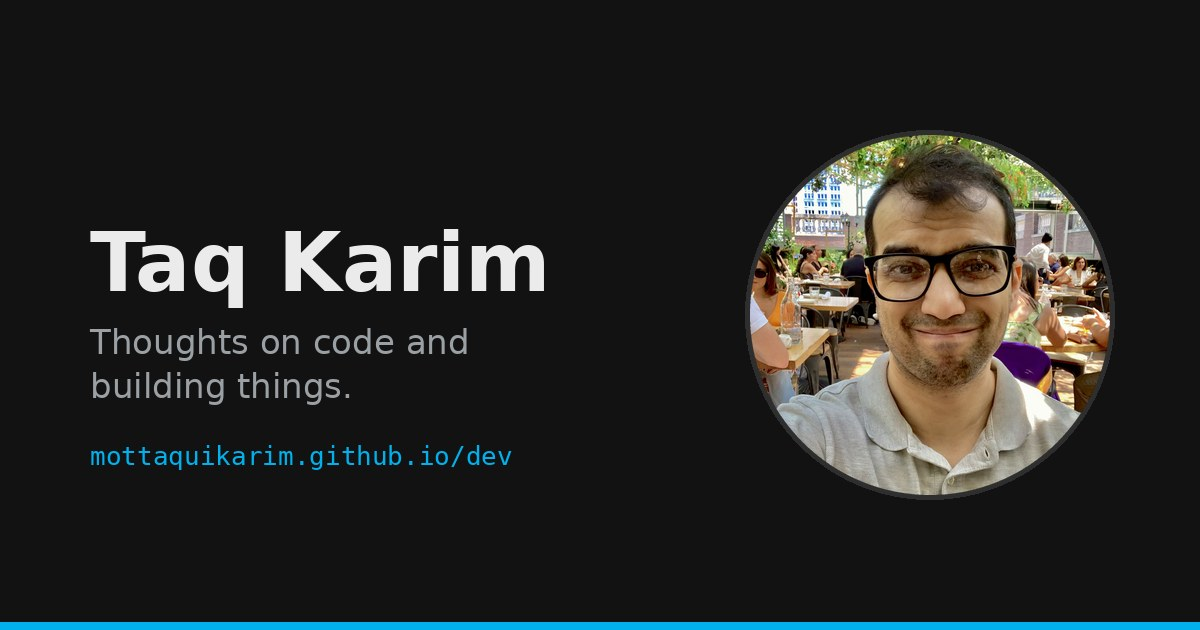
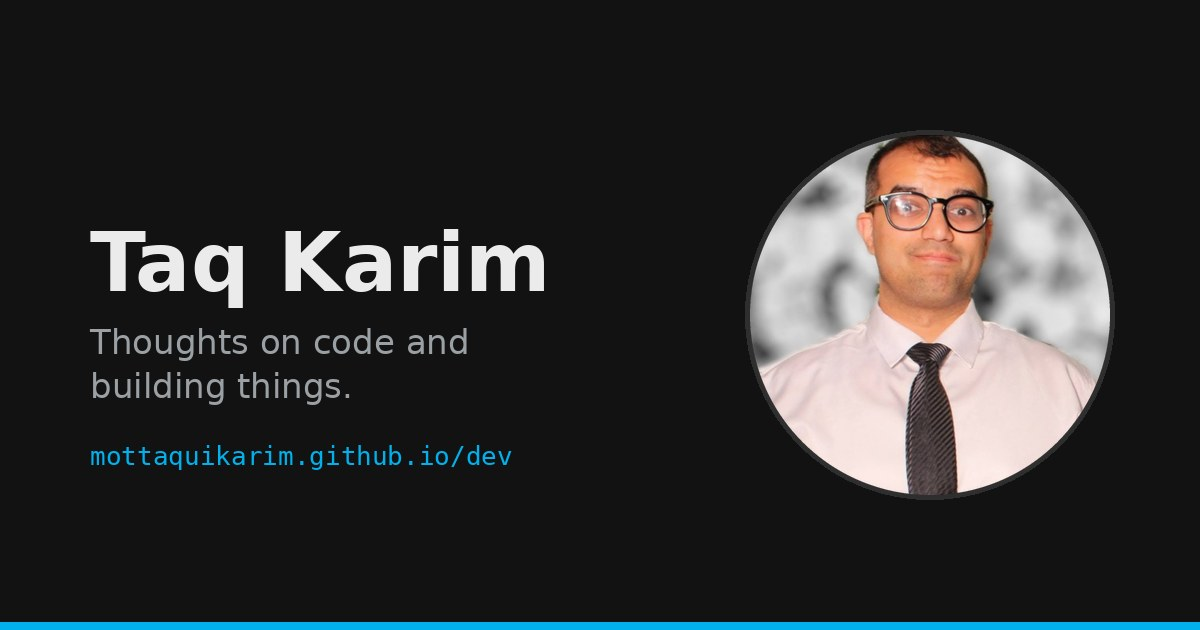
use new profile photo on the social card
Swap the og-card headshot for the current profile picture and regenerate
blog/static/og-card.jpg from it.

The source is LinkedIn's 800x800 square crop, flattened to RGB JPEG. Its
export carries a 1px fully transparent top row, which would flatten to a
black line across the top of the circle, so that row is cropped off before
the card is built.

Claude-Session: https://claude.ai/code/session_01KonW9b1ECE6rR69ytiwF6A

Changed region(s): [[0.6167, 0.2111, 0.925, 0.7841]]

diff --git a/extra/og-card/generate.py b/extra/og-card/generate.py
@@ -15,7 +15,7 @@ import os
 from PIL import Image, ImageDraw, ImageFont, ImageOps
 
 ROOT = os.path.join(os.path.dirname(os.path.abspath(__file__)), "..", "..")
-PHOTO = os.path.join(ROOT, "blog", "static", "img", "taq_karim_recent.jpg")
+PHOTO = os.path.join(ROOT, "blog", "static", "img", "taq_karim_profile.jpg")
 OUT = os.path.join(ROOT, "blog", "static", "og-card.jpg")
 
 W, H = 1200, 630
